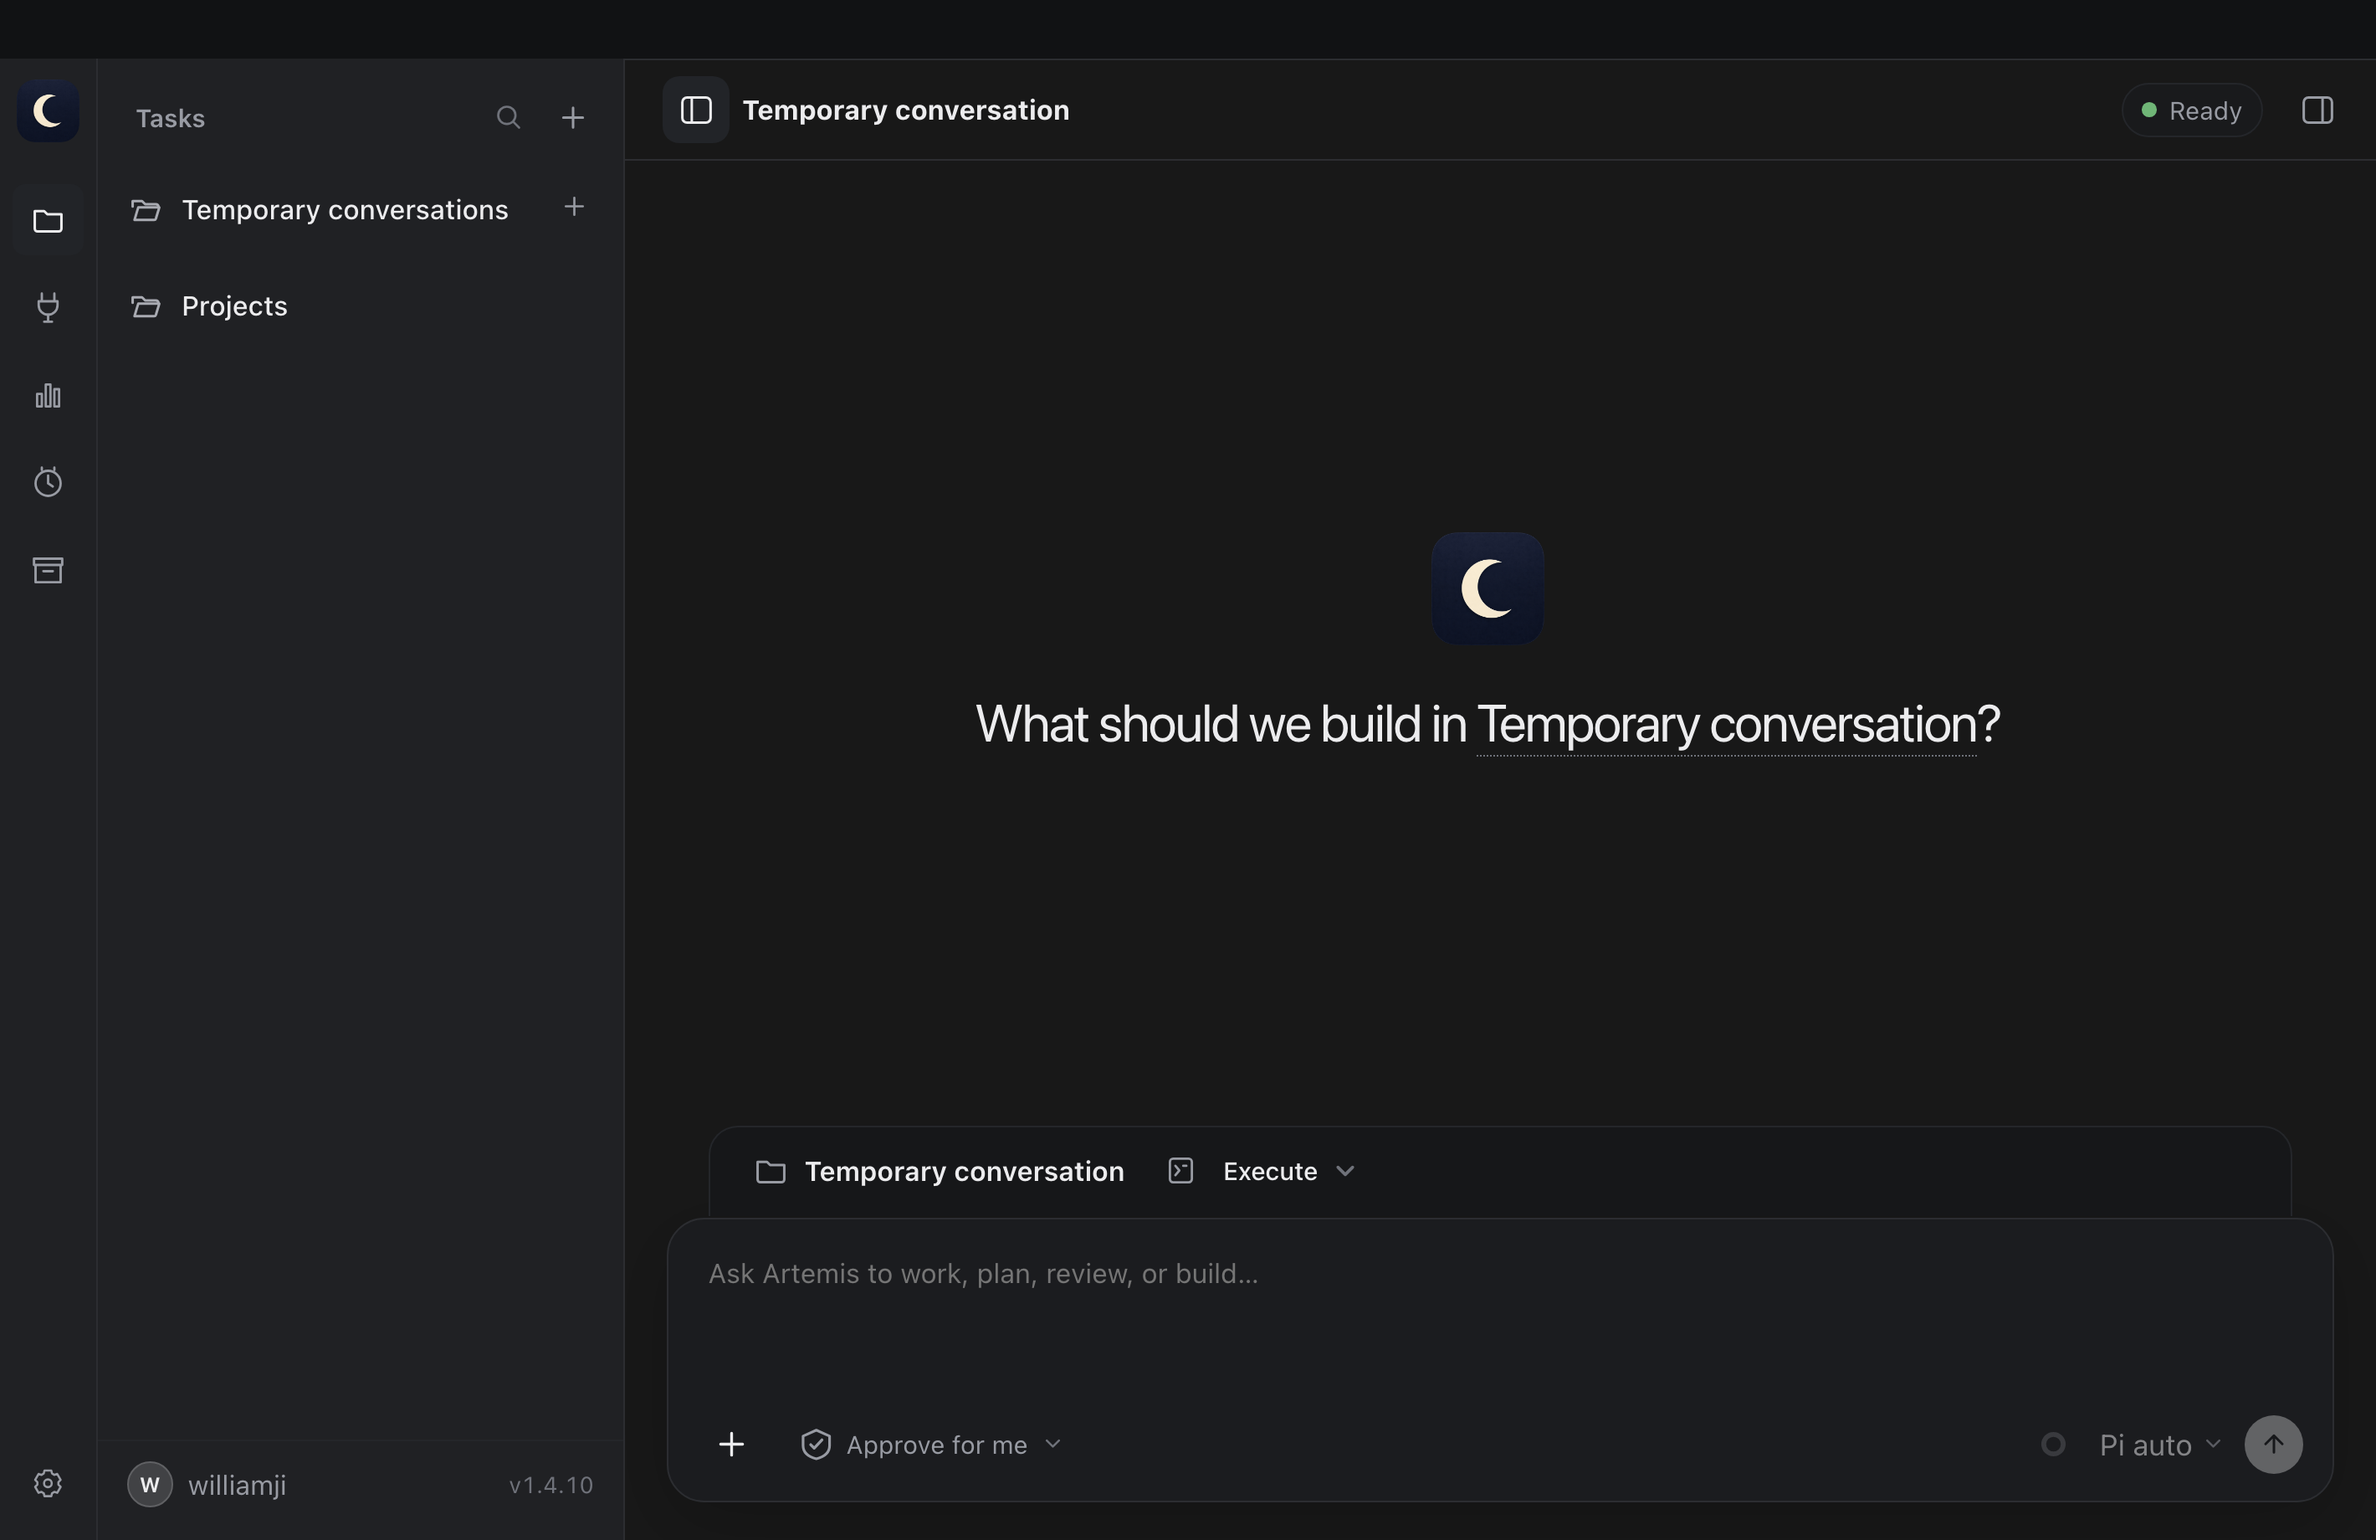
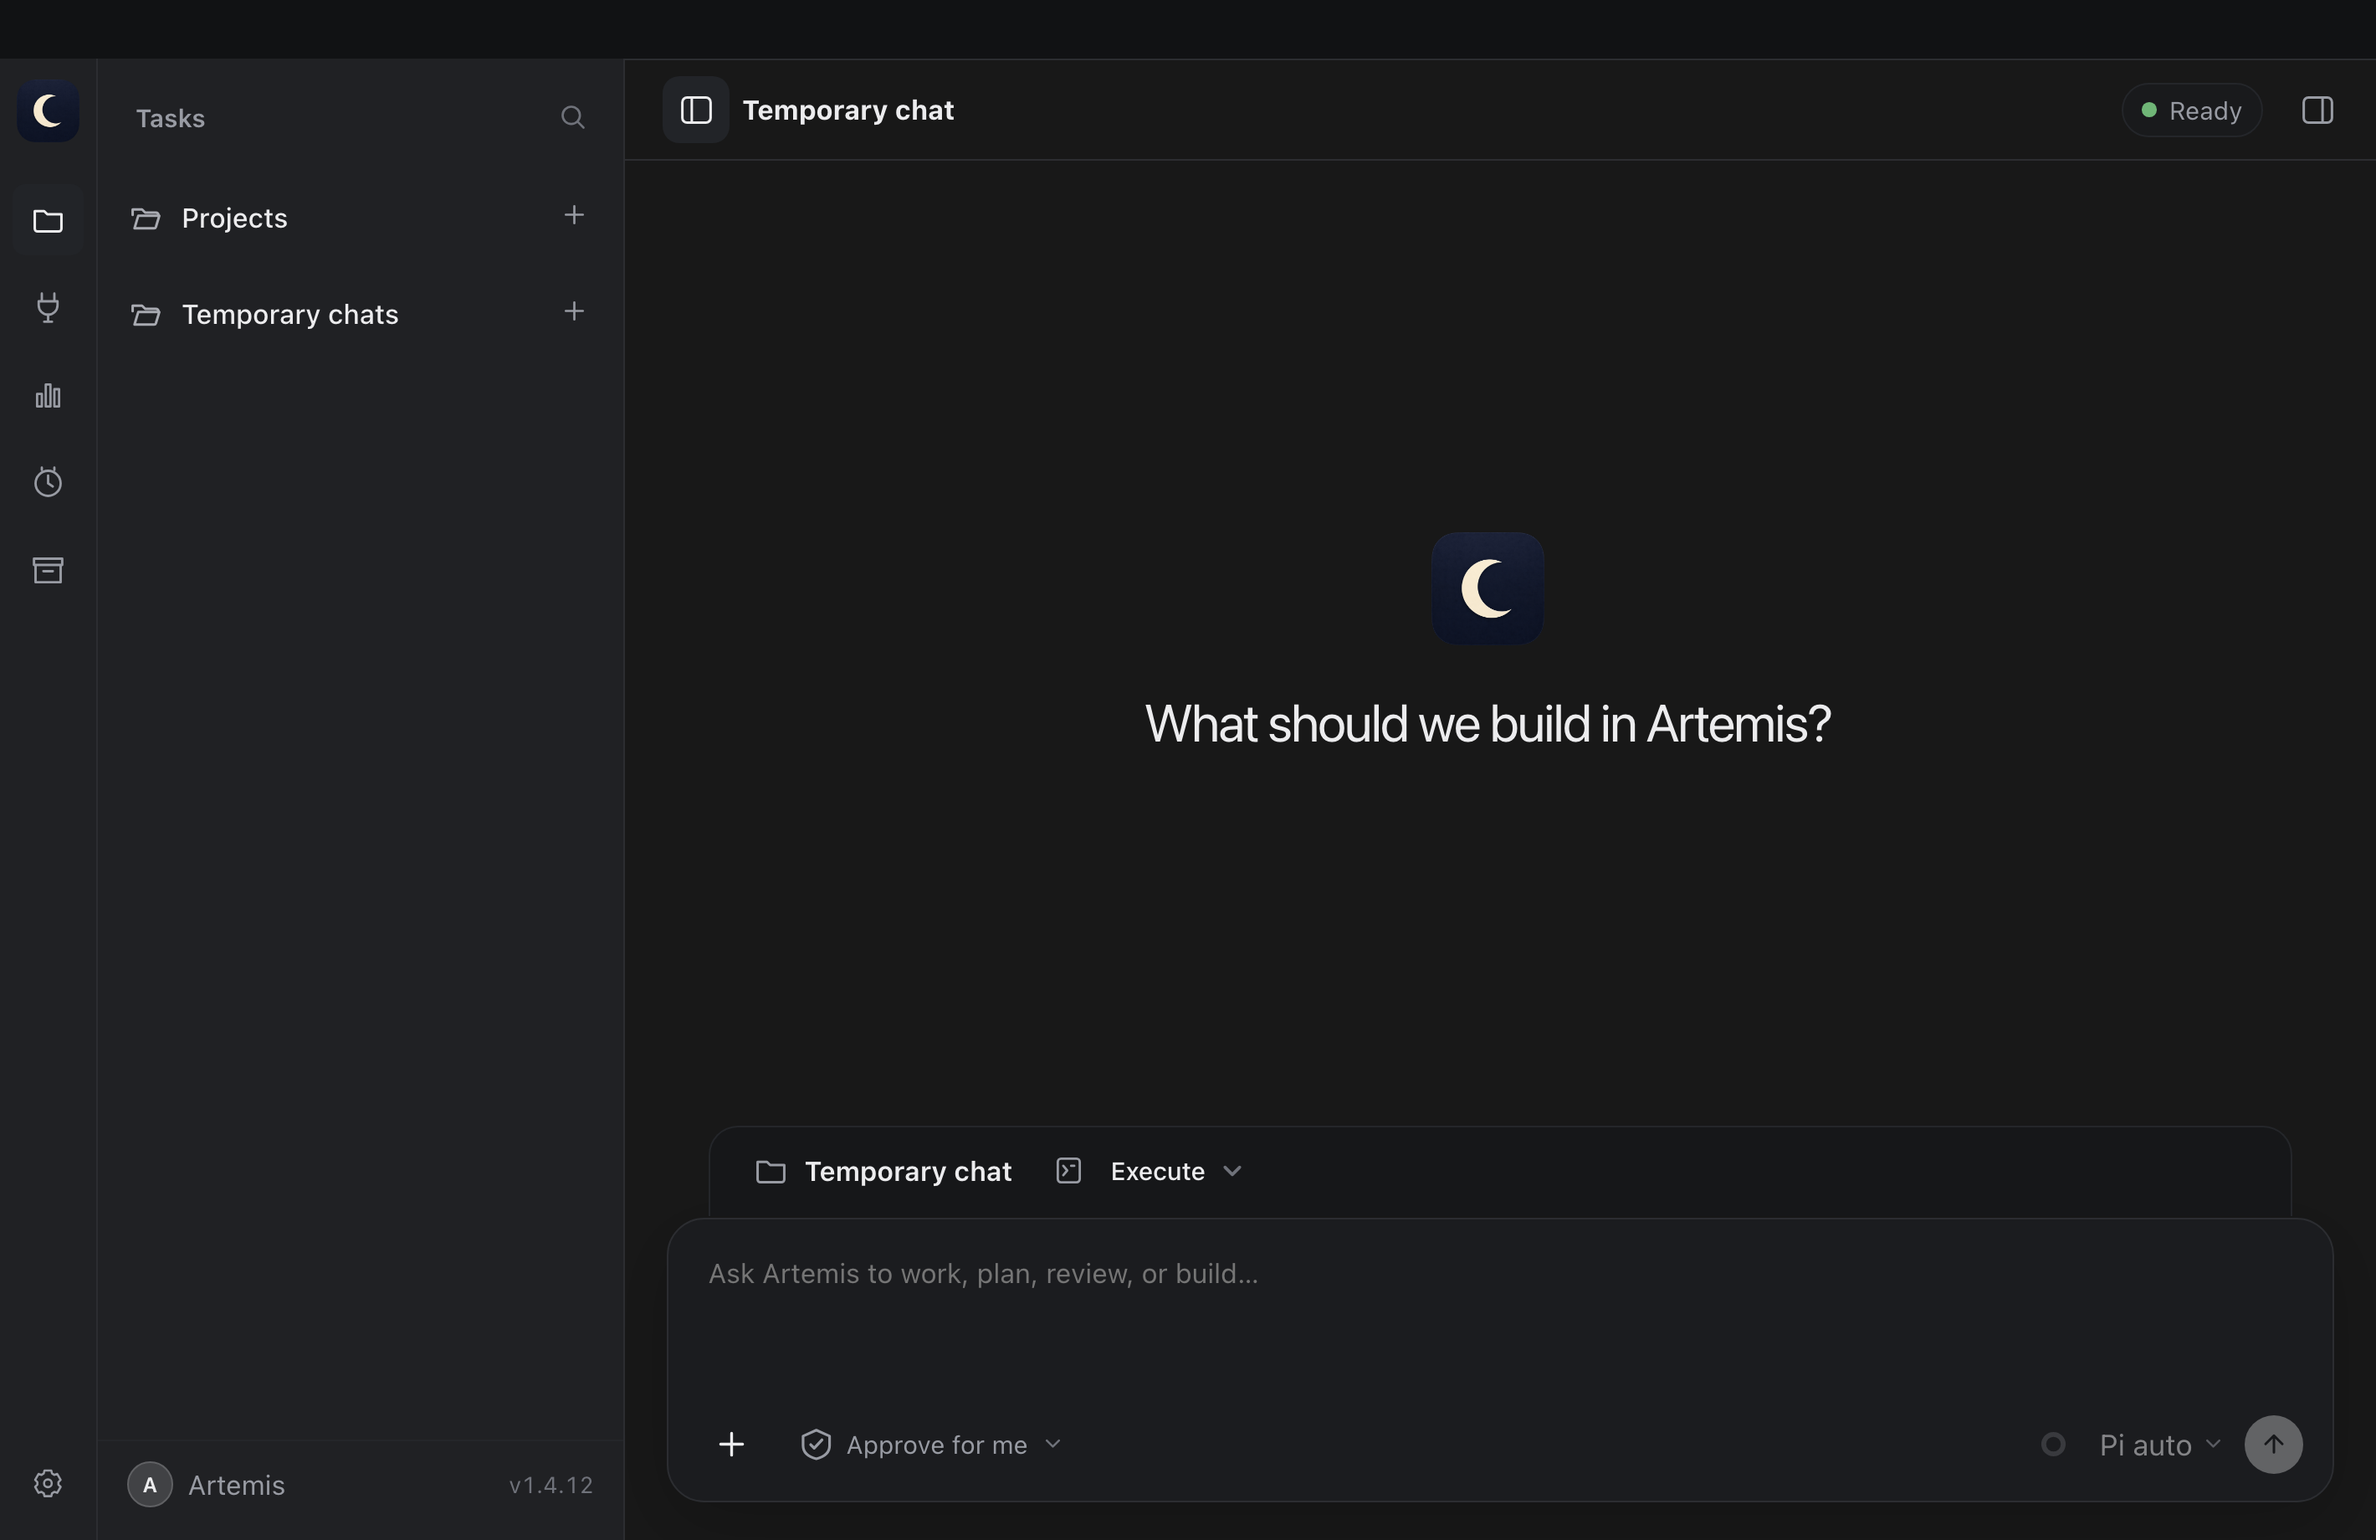
Protect user privacy in smoke snapshots

diff --git a/apps/desktop/test/user-profile-integration.test.ts b/apps/desktop/test/user-profile-integration.test.ts
@@ -15,7 +15,7 @@ const mainSource = source("../src/main/main.ts");
 const stylesSource = source("../src/renderer/styles.css");
 
 describe("current user profile integration", () => {
-  it("adds the OS login username to the existing isolated desktop snapshot", () => {
+  it("keeps the OS username private in smoke screenshots", () => {
     const snapshotHandlerStart = mainSource.indexOf(
       "ipcMain.handle(IPC.snapshot",
     );
@@ -42,7 +42,9 @@ describe("current user profile integration", () => {
     );
     expect(snapshotHandlerStart).toBeGreaterThan(-1);
     expect(snapshotHandlerEnd).toBeGreaterThan(snapshotHandlerStart);
-    expect(snapshotHandler).toContain("userName: userInfo().username");
+    expect(snapshotHandler).toContain(
+      'userName: smokeMode ? "Artemis" : userInfo().username',
+    );
   });
 
   it("replaces the sidebar Local label and passes the resolved username to Token Usage", () => {

diff --git a/apps/desktop/src/main/main.ts b/apps/desktop/src/main/main.ts
@@ -4262,7 +4262,10 @@ function registerIpc(): void {
         includeEvents: false,
       },
     );
-    return { ...snapshot, userName: userInfo().username };
+    return {
+      ...snapshot,
+      userName: smokeMode ? "Artemis" : userInfo().username,
+    };
   });
   ipcMain.handle(IPC.threadEvents, (_event, threadId: string) => {
     if (!store) {
